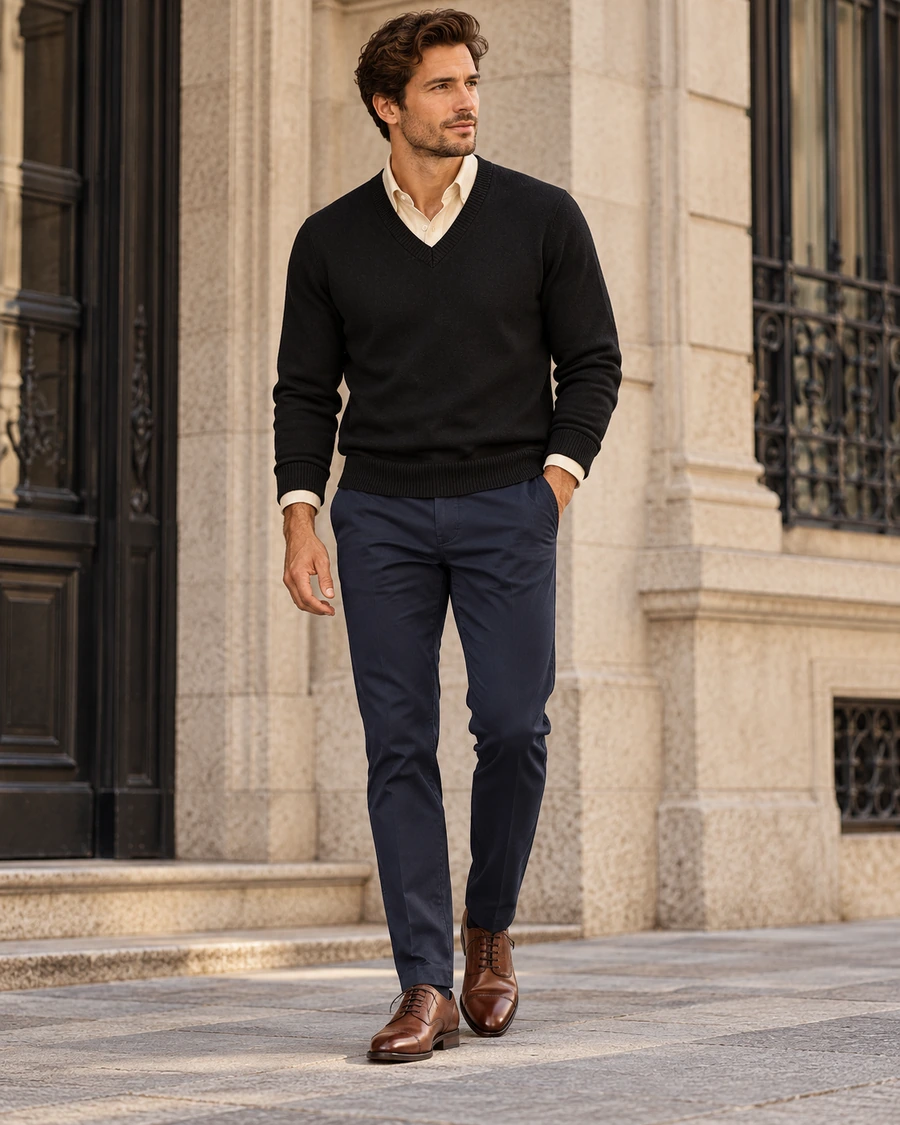
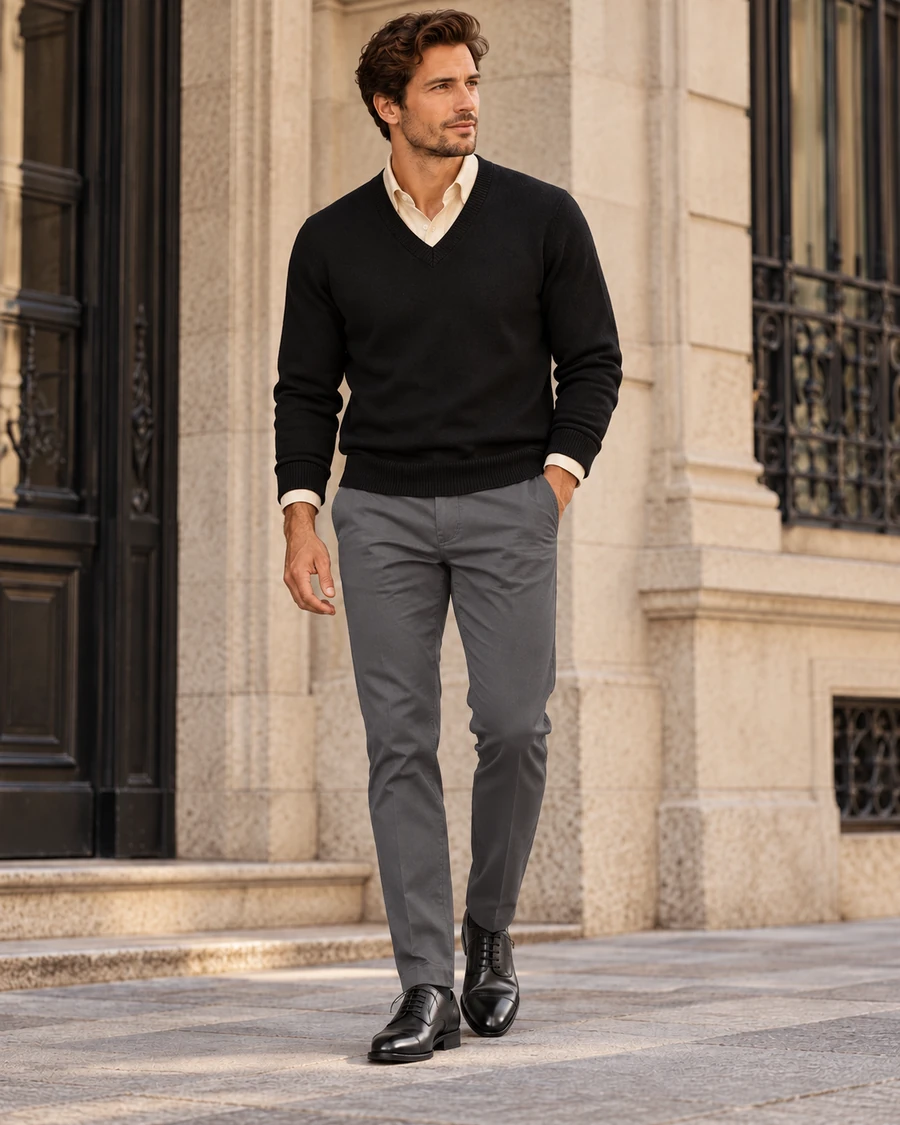
Refine outfit pairings with classic menswear balance

diff --git a/data-canonical.js b/data-canonical.js
@@ -107,11 +107,11 @@
   upsertFamily({id:'family-france-blue-denim',name:'France blue henley + dark denim',hero:'look-78',looks:['look-78']});
   upsertLook({id:'look-78',family:'family-france-blue-denim',name:'France blue henley + dark denim + cognac sneakers',image:'assets/look-78-hq.webp?v=2',formal:1,badges:['Weekend','Travel'],pieces:['owned-france-blue-henley','dark-denim','owned-br-cognac-sneakers']});
 
-  upsertFamily({id:'family-black-vneck-navy',name:'Black V-neck + navy chinos',hero:'look-79',looks:['look-79']});
-  upsertLook({id:'look-79',family:'family-black-vneck-navy',name:'Black V-neck + cream shirt + navy chinos + brown cap-toe shoes',image:'assets/look-79-hq.webp?v=1',formal:3,badges:['Office','Dinner'],pieces:['owned-black-vneck','owned-cream-buttondown','navy-trousers','owned-brown-leather-captoe']});
+  upsertFamily({id:'family-black-vneck-navy',name:'Black V-neck + grey chinos',hero:'look-79',looks:['look-79']});
+  upsertLook({id:'look-79',family:'family-black-vneck-navy',name:'Black V-neck + cream shirt + grey chinos + black cap-toe shoes',image:'assets/look-79-hq.webp?v=2',formal:3,badges:['Office','Dinner'],pieces:['owned-black-vneck','owned-cream-buttondown','grey-trousers','owned-black-leather-captoe']});
 
-  upsertFamily({id:'family-blue-gingham-green',name:'Blue gingham + dark green chinos',hero:'look-80',looks:['look-80']});
-  upsertLook({id:'look-80',family:'family-blue-gingham-green',name:'Blue gingham shirt + dark green chinos + white sneakers',image:'assets/look-80-hq.webp?v=1',formal:2,badges:['Office','Weekend','Travel'],pieces:['owned-blue-gingham-shirt','owned-dark-green-chinos','white-leather-sneakers']});
+  upsertFamily({id:'family-blue-gingham-green',name:'Blue gingham + beige chinos',hero:'look-80',looks:['look-80']});
+  upsertLook({id:'look-80',family:'family-blue-gingham-green',name:'Blue gingham shirt + beige chinos + cognac loafers',image:'assets/look-80-hq.webp?v=2',formal:2,badges:['Office','Weekend','Travel'],pieces:['owned-blue-gingham-shirt','beige-chinos','brown-loafers']});
 
   upsertFamily({id:'family-grey-quarterzip-beige',name:'Grey quarter-zip + beige chinos',hero:'look-81',looks:['look-81']});
   upsertLook({id:'look-81',family:'family-grey-quarterzip-beige',name:'Grey quarter-zip + beige chinos + dark brown suede Chelsea boots',image:'assets/look-81-hq.webp?v=2',formal:2,badges:['Office','Weekend','Travel'],pieces:['owned-grey-quarterzip','beige-chinos','owned-darkbrown-suede-chelsea']});

diff --git a/detail.html b/detail.html
@@ -28,7 +28,7 @@
   <script src="data-batch13.js?v=4"></script>
   <script src="data-batch14.js?v=4"></script>
   <script src="data-batch15.js?v=2"></script>
-  <script src="data-canonical.js?v=10"></script>
+  <script src="data-canonical.js?v=11"></script>
   <script src="data-owned-intake-20261006.js?v=2"></script>
   <script src="look-aliases.js?v=1"></script>
   <script src="wardrobe-normalize.js?v=1"></script>

diff --git a/index.html b/index.html
@@ -28,7 +28,7 @@
   <script src="data-batch13.js?v=4"></script>
   <script src="data-batch14.js?v=4"></script>
   <script src="data-batch15.js?v=2"></script>
-  <script src="data-canonical.js?v=10"></script>
+  <script src="data-canonical.js?v=11"></script>
   <script src="data-owned-intake-20261006.js?v=2"></script>
   <script src="look-aliases.js?v=1"></script>
   <script src="wardrobe-normalize.js?v=1"></script>

diff --git a/stats.html b/stats.html
@@ -26,7 +26,7 @@
   <script src="data-batch13.js?v=4"></script>
   <script src="data-batch14.js?v=4"></script>
   <script src="data-batch15.js?v=2"></script>
-  <script src="data-canonical.js?v=10"></script>
+  <script src="data-canonical.js?v=11"></script>
   <script src="data-owned-intake-20261006.js?v=2"></script>
   <script src="look-aliases.js?v=1"></script>
   <script src="wardrobe-normalize.js?v=1"></script>

diff --git a/unlock.html b/unlock.html
@@ -28,7 +28,7 @@
   <script src="data-batch13.js?v=4"></script>
   <script src="data-batch14.js?v=4"></script>
   <script src="data-batch15.js?v=2"></script>
-  <script src="data-canonical.js?v=10"></script>
+  <script src="data-canonical.js?v=11"></script>
   <script src="data-owned-intake-20261006.js?v=2"></script>
   <script src="look-aliases.js?v=1"></script>
   <script src="wardrobe-normalize.js?v=1"></script>

diff --git a/wardrobe.html b/wardrobe.html
@@ -29,7 +29,7 @@
   <script src="data-batch13.js?v=4"></script>
   <script src="data-batch14.js?v=4"></script>
   <script src="data-batch15.js?v=2"></script>
-  <script src="data-canonical.js?v=10"></script>
+  <script src="data-canonical.js?v=11"></script>
   <script src="data-owned-intake-20261006.js?v=1"></script>
   <script src="look-aliases.js?v=1"></script>
   <script src="wardrobe-normalize.js?v=1"></script>
